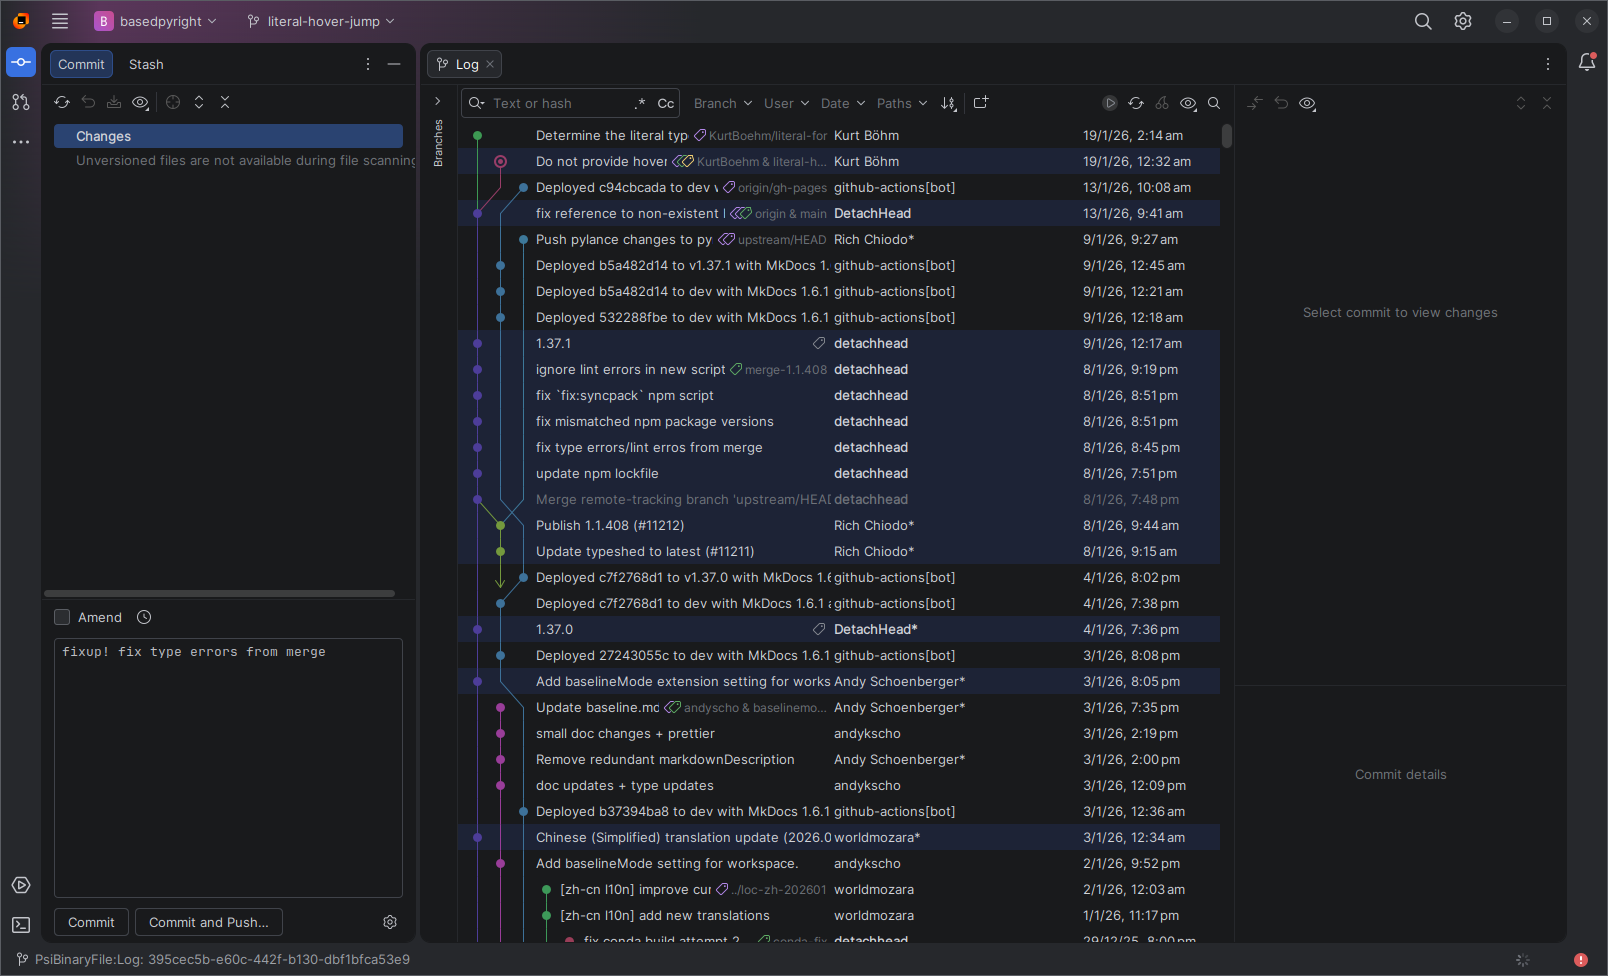
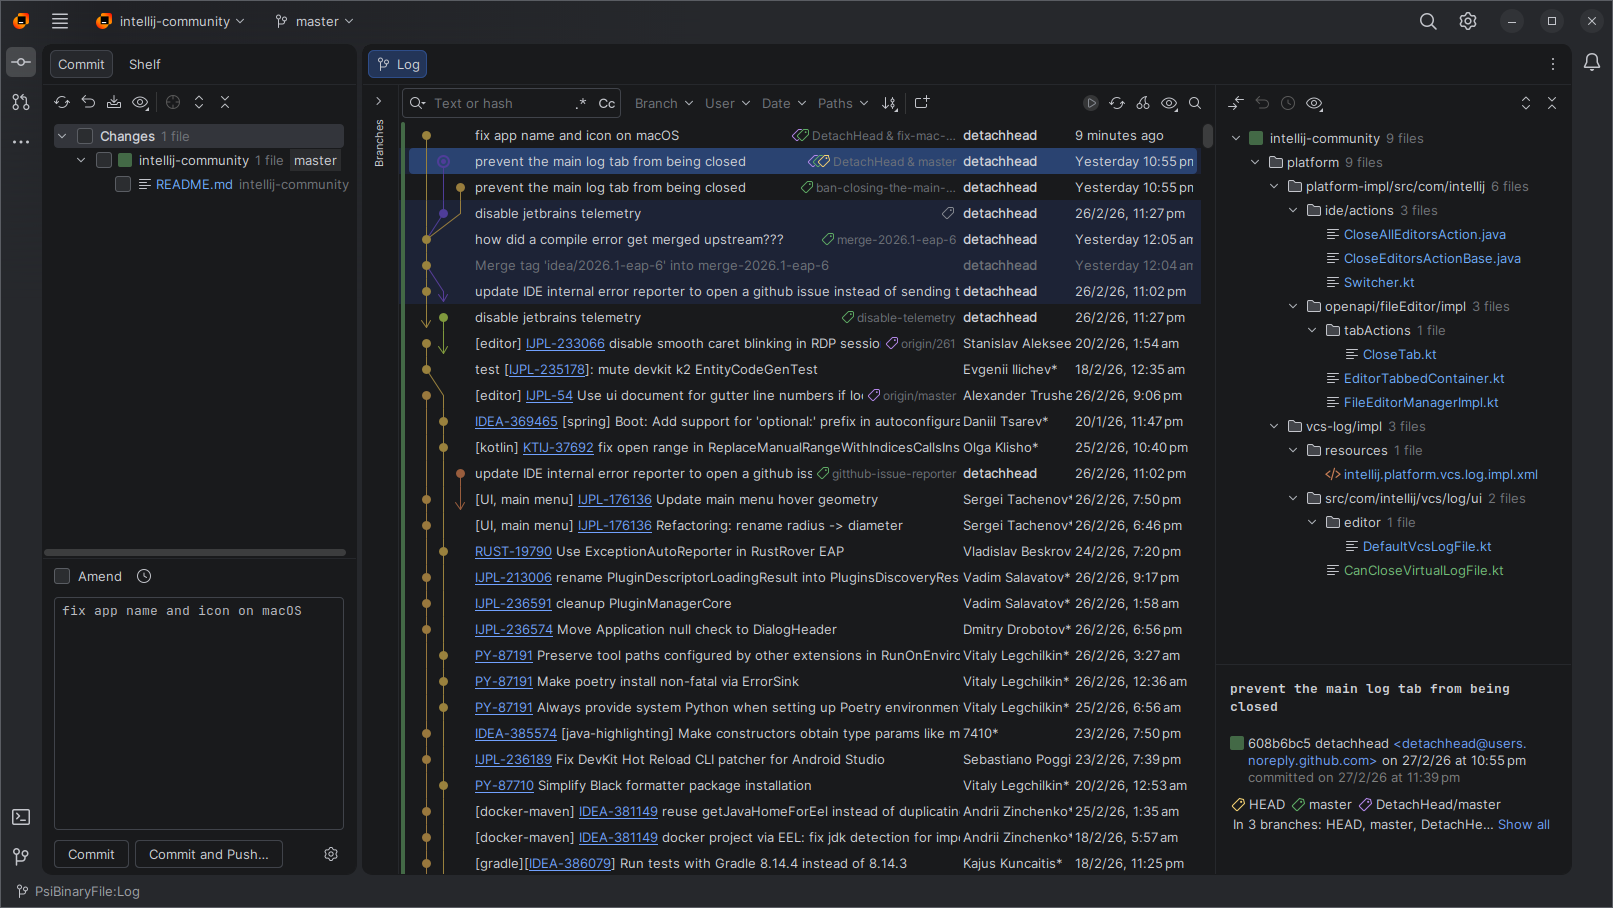
update readme in preparation for stable release

diff --git a/README.md b/README.md
@@ -5,9 +5,6 @@ A git client based on the IntelliJ platform.
 This project aims to be an open-source remake of the short-lived [jetbrains git client](https://youtrack.jetbrains.com/issue/IJPL-72504/Make-git-client-a-standalone-app#focus=Comments-27-12868395.0-0).
 It's basically just a JetBrains IDE with all the bundled plugins removed except the git integration, with some additional UI tweaks.
 
-> [!WARNING]
-> Rebased is still in early development. Expect some things to be broken.
-
 ![](screenshot.png)
 
 ## Why?
